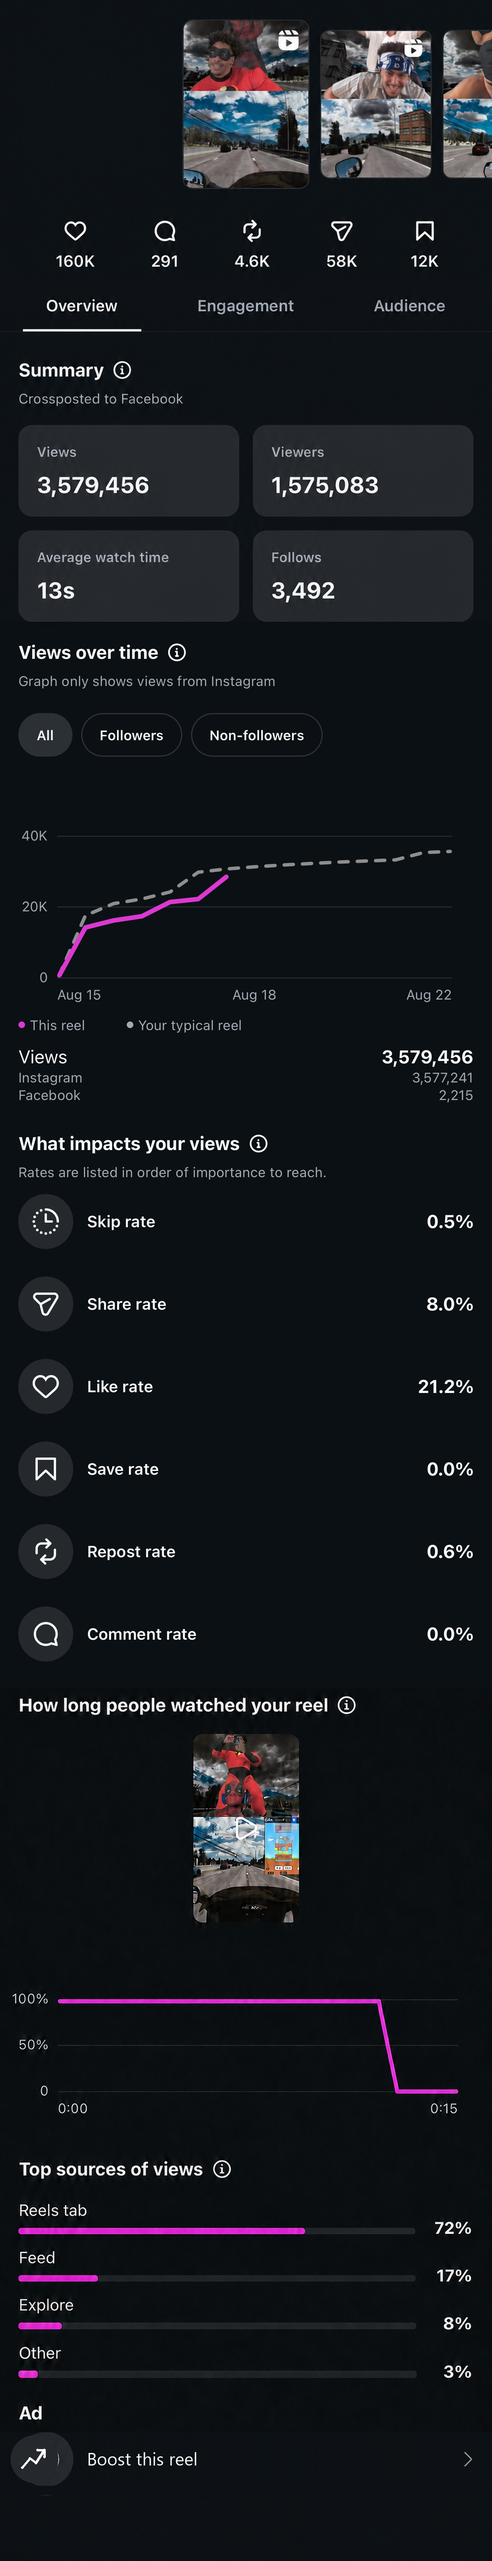
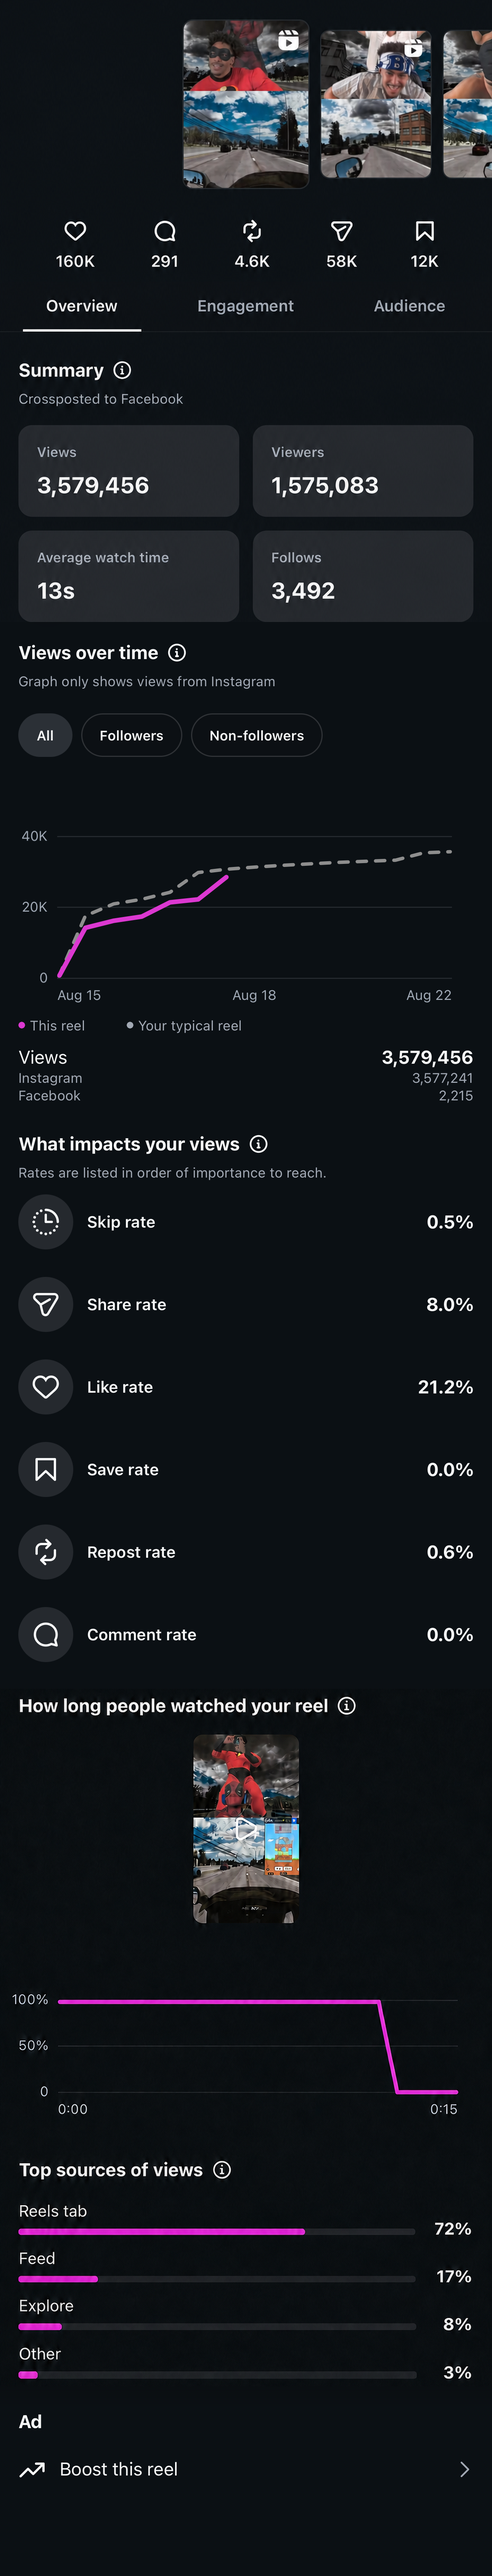
Restore the authentic Boost this reel row (bare arrow, no circle) with its natural bottom space.

diff --git a/new.html b/new.html
@@ -11,14 +11,14 @@
 <meta name="mobile-web-app-capable" content="yes">
 <meta name="apple-mobile-web-app-status-bar-style" content="black-translucent">
 <meta name="theme-color" content="#000000">
-<link rel="manifest" href="manifest_new.json?v=73">
-<link rel="apple-touch-icon" href="icon.png?v=73">
+<link rel="manifest" href="manifest_new.json?v=74">
+<link rel="apple-touch-icon" href="icon.png?v=74">
 <!-- native iOS launch images: iOS shows these INSTANTLY on tap (before our HTML
      loads), killing the system gray phase. Pixel-identical to the in-page splash. -->
-<link rel="apple-touch-startup-image" media="screen and (device-width: 430px) and (device-height: 932px) and (-webkit-device-pixel-ratio: 3) and (orientation: portrait)" href="launch_1290x2796.png?v=73">
-<link rel="apple-touch-startup-image" media="screen and (device-width: 393px) and (device-height: 852px) and (-webkit-device-pixel-ratio: 3) and (orientation: portrait)" href="launch_1179x2556.png?v=73">
+<link rel="apple-touch-startup-image" media="screen and (device-width: 430px) and (device-height: 932px) and (-webkit-device-pixel-ratio: 3) and (orientation: portrait)" href="launch_1290x2796.png?v=74">
+<link rel="apple-touch-startup-image" media="screen and (device-width: 393px) and (device-height: 852px) and (-webkit-device-pixel-ratio: 3) and (orientation: portrait)" href="launch_1179x2556.png?v=74">
 <title>Instagram</title>
-<script src="config.js?v=73"></script>
+<script src="config.js?v=74"></script>
 <script>
 if('serviceWorker' in navigator){
   navigator.serviceWorker.register('sw.js',{updateViaCache:'none'}).then(r=>r.update());
@@ -89,8 +89,8 @@ if('serviceWorker' in navigator){
     animation:insShine 1.4s linear infinite;}
   @keyframes insShine{from{background-position:-85% 0}to{background-position:130% 0}}
   #contentShimmer::after{
-    -webkit-mask-image:url(insights_content_shimmer_mask.png?v=73);
-    mask-image:url(insights_content_shimmer_mask.png?v=73);}
+    -webkit-mask-image:url(insights_content_shimmer_mask.png?v=74);
+    mask-image:url(insights_content_shimmer_mask.png?v=74);}
   #overviewShimmer{display:none;position:relative;overflow:hidden;width:100%;opacity:1;
     transition:opacity .38s ease;}
   #overviewShimmer.on{display:block;}
@@ -98,8 +98,8 @@ if('serviceWorker' in navigator){
   #overviewShimmer.fade{opacity:0;}
   #overviewShimmer img{display:block;width:100%;}
   #overviewShimmer::after{
-    -webkit-mask-image:url(insights_overview_shimmer_mask.png?v=73);
-    mask-image:url(insights_overview_shimmer_mask.png?v=73);}
+    -webkit-mask-image:url(insights_overview_shimmer_mask.png?v=74);
+    mask-image:url(insights_overview_shimmer_mask.png?v=74);}
   /* Overview line chart overlay — sits on the painted graph hole in the screenshot.
      Percents are of insights_overview_full.png (1290×4887): y 766–1296. */
   #viewsGraph{position:absolute;left:0;width:100%;top:15.6742%;height:10.8451%;
@@ -117,14 +117,14 @@ if('serviceWorker' in navigator){
   /* interactions: pinned header (safe-area padding, tiled real-bg strip - the /new1
      pattern) + stitched content + swipe-snap Audience carousel */
   #intHdr{position:sticky;top:0;z-index:10;padding-top:env(safe-area-inset-top,0px);
-          background:#0c1115 url(screens/n_int_hdr_bg.png?v=73) repeat-y;background-size:100% 3px;}
+          background:#0c1115 url(screens/n_int_hdr_bg.png?v=74) repeat-y;background-size:100% 3px;}
   #intHdr img{display:block;width:100%;}
   /* carousel: two snap stops (Top cities at 0, Top countries at D=1066/1290 of the
      viewport). Drag and release -> the card settles into place; ends clamp. */
   #audSnap{width:100%;overflow-x:auto;overflow-y:hidden;scroll-snap-type:x mandatory;
            -webkit-overflow-scrolling:touch;background:#0c1115;}
   #audTrack{width:182.6357%;display:flex;aspect-ratio:2356/685;
-            background:url(screens/n_aud_strip.png?v=73) no-repeat;background-size:100% 100%;}
+            background:url(screens/n_aud_strip.png?v=74) no-repeat;background-size:100% 100%;}
   #audTrack .sA{width:45.2462%;scroll-snap-align:start;}
   #audTrack .sB{width:54.7538%;scroll-snap-align:start;}
 </style>
@@ -136,7 +136,7 @@ if('serviceWorker' in navigator){
     <!-- HOME -->
     <div class="screen active" id="s-home">
       <div class="sheet">
-        <img src="screens/n_home.png?v=73">
+        <img src="screens/n_home.png?v=74">
         <div class="hot" style="left:80%;top:89%;width:20%;height:9%" onclick="goProfile()"></div>
       </div>
     </div>
@@ -144,7 +144,7 @@ if('serviceWorker' in navigator){
     <!-- PROFILE -->
     <div class="screen navpad" id="s-profile">
       <div class="sheet">
-        <img src="screens/n_profile.png?v=73">
+        <img src="screens/n_profile.png?v=74">
         <div class="hot" style="left:3%;top:36%;width:94%;height:7%" onclick="goDashboard()"></div>
       </div>
     </div>
@@ -152,7 +152,7 @@ if('serviceWorker' in navigator){
     <!-- DASHBOARD -->
     <div class="screen" id="s-dashboard">
       <div class="sheet">
-        <img id="dashImg" src="screens/n_dash.png?v=73">
+        <img id="dashImg" src="screens/n_dash.png?v=74">
         <!-- Views row -> insights. This capture has no Interactions row
              (Views / New followers / Content). Extra rows stay unwired. -->
         <div class="hot" style="left:0;top:17.8%;width:100%;height:4.8%" onclick="goInsights()"></div>
@@ -162,11 +162,11 @@ if('serviceWorker' in navigator){
     <!-- INTERACTIONS -->
     <div class="screen navpad" id="s-interactions">
       <div id="intHdr">
-        <img src="screens/n_int_header.png?v=73">
+        <img src="screens/n_int_header.png?v=74">
         <div class="hot" style="left:0;top:0;width:16%;height:58%" onclick="goBackDash()"></div>
       </div>
       <div class="sheet">
-        <img src="screens/n_int_top.png?v=73">
+        <img src="screens/n_int_top.png?v=74">
       </div>
       <div id="audSnap">
         <div id="audTrack"><div class="sA"></div><div class="sB"></div></div>
@@ -177,7 +177,7 @@ if('serviceWorker' in navigator){
     <!-- INSIGHTS -->
     <div class="screen" id="s-insights">
       <div id="insHeader">
-        <img id="h-overview" class="insTabImg on" src="insights_overview_header2.png?v=73">
+        <img id="h-overview" class="insTabImg on" src="insights_overview_header2.png?v=74">
         <img id="h-content" class="insTabImg" alt="">
         <img id="h-audience" class="insTabImg" alt="">
         <div class="hot" style="left:0;top:65%;width:33.3%;height:35%" onclick="insTab('overview')"></div>
@@ -186,11 +186,11 @@ if('serviceWorker' in navigator){
       </div>
       <div id="insScroller">
         <div id="insContent">
-          <img id="c-overview" class="insTabImg on" src="insights_overview_full.png?v=73">
+          <img id="c-overview" class="insTabImg on" src="insights_overview_full.png?v=74">
           <img id="c-content" class="insTabImg" alt="">
           <img id="c-audience" class="insTabImg" alt="">
-          <div id="overviewShimmer"><img src="insights_overview_shimmer.png?v=73" alt=""></div>
-          <div id="contentShimmer"><img src="insights_content_shimmer.png?v=73" alt=""></div>
+          <div id="overviewShimmer"><img src="insights_overview_shimmer.png?v=74" alt=""></div>
+          <div id="contentShimmer"><img src="insights_content_shimmer.png?v=74" alt=""></div>
           <div id="viewsGraph"></div>
           <div id="followsGraph"></div>
           <div id="reelHot" class="hot" onclick="goReel()"></div>
@@ -201,18 +201,18 @@ if('serviceWorker' in navigator){
     <!-- REEL INSIGHTS (Meow meow) -->
     <div class="screen" id="s-reel">
       <div id="reelHeader">
-        <img src="insights_reel_header.png?v=73">
+        <img src="insights_reel_header.png?v=74">
         <div class="hot" style="left:0;top:49%;width:18%;height:51%" onclick="goBackInsights()"></div>
       </div>
       <div id="reelScroller">
         <div id="reelContent">
-          <img src="insights_reel_full.png?v=73">
+          <img src="insights_reel_full.png?v=74">
         </div>
       </div>
     </div>
 
   </div>
-  <div id="insLoading"><img id="loadImg" src="screens/ins_spinner_c.png?v=73"></div>
+  <div id="insLoading"><img id="loadImg" src="screens/ins_spinner_c.png?v=74"></div>
 </div>
 <script>
   // ---- live profile stat numbers (posts/followers/following) ----
@@ -279,7 +279,7 @@ if('serviceWorker' in navigator){
     document.body.style.background = '#0d1115';
   });
 
-  const ASSET_V = '?v=73';   // bump when any screen image changes (cache-bust mobile)
+  const ASSET_V = '?v=74';   // bump when any screen image changes (cache-bust mobile)
   const el = id => document.getElementById(id);
   // Flow-model navigation: exactly one screen is .active (in normal flow, so it sets
   // the document height and iOS places the safe areas naturally). Transitions overlay

diff --git a/sw.js b/sw.js
@@ -4,7 +4,7 @@
 // background. If the background refresh finds a NEW app shell, clients are notified
 // so they can silently reload while the splash still covers the screen.
 // Bump CACHE on each deploy; activate purges older caches.
-const CACHE = 'ig-v73';
+const CACHE = 'ig-v74';
 
 self.addEventListener('install', () => self.skipWaiting());
 

diff --git a/screens/CROP.md b/screens/CROP.md
@@ -65,7 +65,8 @@ Content’s first row opens a separate screen (`#s-reel`), not the main Insights
    - folder `(11)` `1.png` `y = 360 … 1988` (thumbnails + Summary cards)
    - folder `(11)` `2.PNG` `y = 320 …` through Views / Instagram / Facebook (stop in empty before What impacts)
    - folder `(13)` `2.PNG` `y = 360 … 1820` (What impacts heading through Comment rate; **do not** include that shot’s leftover How long heading or its short magenta line)
-   - folder `(14)` `C5B42B15-…png` `y = 548 … 2496` (full How long people watched through the **Ad** heading; stop before that shot’s Boost row — Instagram clips Boost on the home indicator, so the gray icon circle and letter bottoms are missing in every source screenshot)
-   - Rebuild **Boost this reel** as a complete Overview-style list row (140 px gray icon well, matching Profile visits / Business address taps), then Overview’s empty pad under the complete Business address circle
-   → `insights_reel_full.png` (1290×6705)
+   - folder `(14)` `C5B42B15-…png` `y = 548 … 2404` (full How long people watched through Top sources ending with Other 3%; stop in the empty gap **before** that shot’s Ad heading — its Boost row has an iOS tap-highlight orb baked in and must never be used)
+   - folder `(11)` `3.PNG` `y = 2330 … 2796` (authentic **Ad** heading + complete Boost this reel row — bare white arrow, no circle — plus its natural 259 px empty bottom; no home indicator in this shot)
+   - Feather a 60 px background blend across the f14→f11 seam (live y 6246–6306) since f14 bg ≈ (10,14,17) and f11 bg = (11,16,20)
+   → `insights_reel_full.png` (1290×6742)
 3. Back returns to Insights Content. Do not use the spinner overlay.
